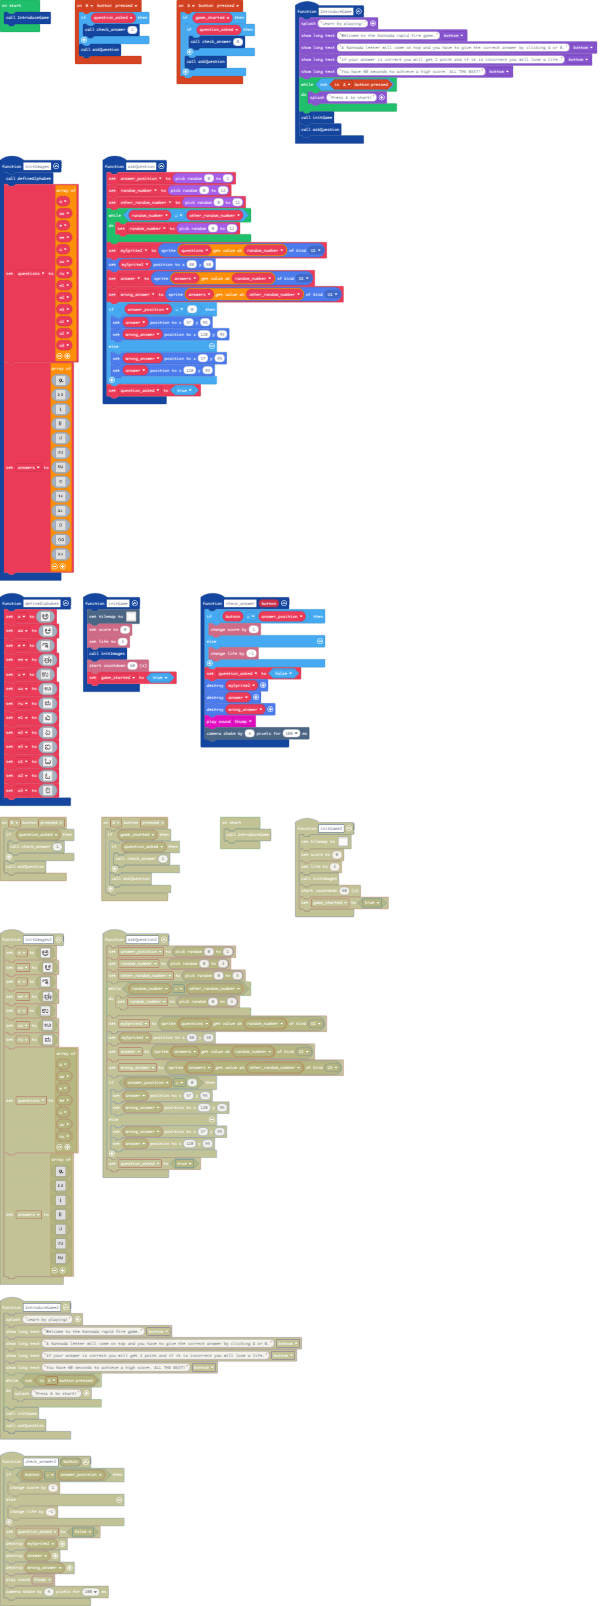
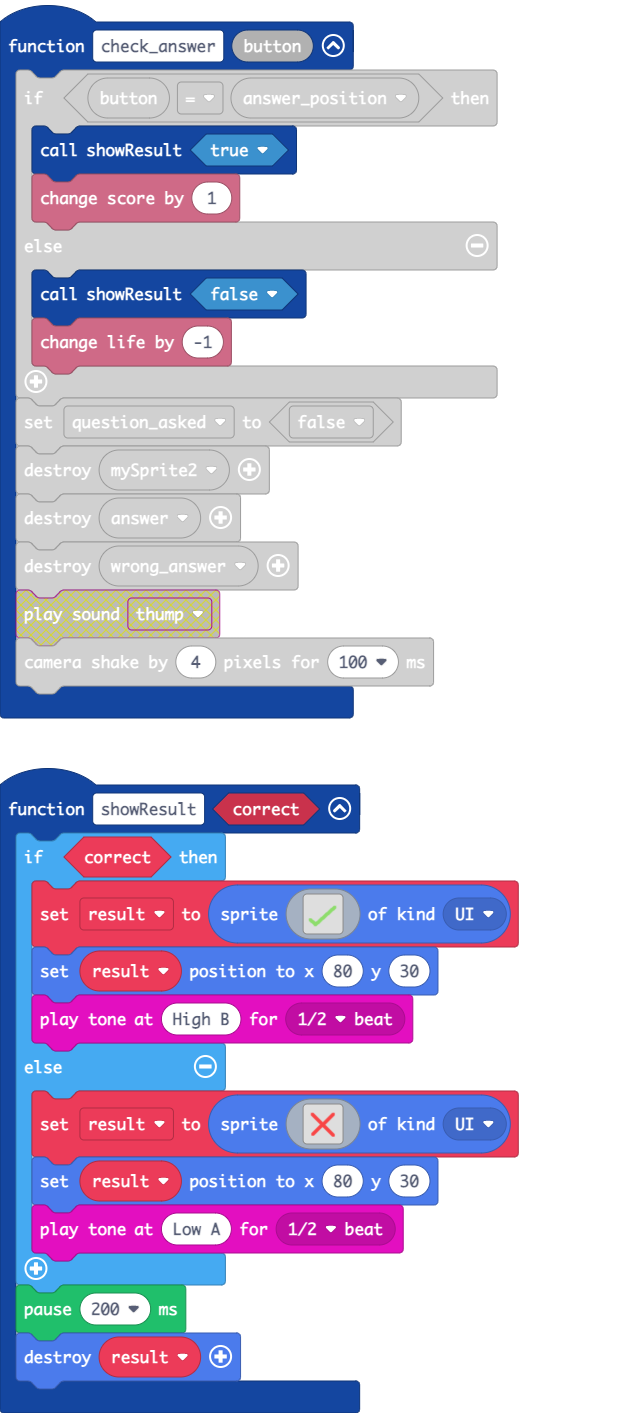
Update main.blocks, main.ts, tilemap.g.jres, tilemap.g.ts, images.g.jres, images.g.ts

diff --git a/images.g.ts b/images.g.ts
@@ -1296,6 +1296,140 @@ namespace myImages {
 ................................
 ................................
 `;
+            case "9~A=H0!|@*oYaUJzt`SR":
+            case "incorrect":return img`
+................................................................
+................................................................
+................................................................
+................................................................
+................................................................
+................................................................
+................................................................
+................................................................
+................................................................
+................................................................
+........22222.....................................22222.........
+........222222...................................222222.........
+........2222222.................................2222222.........
+........22222222...............................22222222.........
+........222222222.............................222222222.........
+.........222222222...........................222222222..........
+..........222222222.........................222222222...........
+...........222222222.......................222222222............
+............222222222.....................222222222.............
+.............222222222...................222222222..............
+..............222222222.................222222222...............
+...............222222222...............222222222................
+................222222222.............222222222.................
+.................222222222...........222222222..................
+..................222222222.........222222222...................
+...................222222222.......222222222....................
+....................222222222.....222222222.....................
+.....................222222222...222222222......................
+......................222222222.222222222.......................
+.......................22222222222222222........................
+........................222222222222222.........................
+.........................2222222222222..........................
+..........................22222222222...........................
+..........................2222222222............................
+.........................222222222222...........................
+........................22222222222222..........................
+.......................2222222222222222.........................
+......................222222222222222222........................
+.....................222222222..222222222.......................
+....................222222222....222222222......................
+...................222222222......222222222.....................
+..................222222222........222222222....................
+.................222222222..........222222222...................
+................222222222............222222222..................
+...............222222222..............222222222.................
+..............222222222................222222222................
+.............222222222..................222222222...............
+............222222222....................222222222..............
+...........222222222......................222222222.............
+..........222222222........................222222222............
+.........222222222..........................222222222...........
+.........22222222............................222222222..........
+.........2222222..............................222222222.........
+.........222222................................22222222.........
+.........22222..................................2222222.........
+.................................................222222.........
+..................................................22222.........
+................................................................
+................................................................
+................................................................
+................................................................
+................................................................
+................................................................
+................................................................
+`;
+            case "Zl_]B3p6DDS":
+            case "correct":return img`
+................................................................
+................................................................
+................................................................
+................................................................
+................................................................
+................................................................
+................................................................
+................................................................
+................................................................
+................................................................
+................................................................
+................................................................
+................................................................
+................................................................
+................................................................
+................................................................
+.....................................................77777......
+....................................................777777......
+...................................................7777777......
+..................................................77777777......
+................................................7777777777......
+...............................................7777777777.......
+..............................................7777777777........
+.............................................7777777777.........
+............................................7777777777..........
+...........................................777777777............
+..........................................777777777.............
+.........................................777777777..............
+........................................777777777...............
+......................................7777777777................
+.....................................7777777777.................
+....................................7777777777..................
+...................................7777777777...................
+..................................7777777777....................
+.................................777777777......................
+................................777777777.......................
+...............................777777777........................
+..............................777777777.........................
+............................7777777777..........................
+...........................7777777777...........................
+..........................7777777777............................
+....77777................7777777777.............................
+....777777..............7777777777..............................
+....7777777............777777777................................
+....77777777..........777777777.................................
+....7777777777.......777777777..................................
+.....7777777777.....777777777...................................
+......7777777777..7777777777....................................
+.......77777777777777777777.....................................
+........777777777777777777......................................
+..........777777777777777.......................................
+...........7777777777777........................................
+............7777777777..........................................
+.............77777777...........................................
+..............777777............................................
+..............77777.............................................
+................................................................
+................................................................
+................................................................
+................................................................
+................................................................
+................................................................
+................................................................
+................................................................
+`;
         }
         return null;
     })

diff --git a/tilemap.g.ts b/tilemap.g.ts
@@ -119,6 +119,25 @@ namespace myTiles {
 . . . . . . . . . . 
 . . . . . . . . . . 
 `, [myTiles.transparency16,myTiles.tile3,myTiles.tile4,myTiles.tile1], TileScale.Sixteen);
+            case "level7":
+            case "level7":return tiles.createTilemap(hex`1000100000000000000000000000000000000000000000000000000000000000000000000000000000000000000000000000000000000000000000000000000000000000000000000000000000000000000000000000000000000000000000000000000000000000000000000000000000000000000000000000000000000000000000000000000000000000000000000000000000000000000000000000000000000000000000000000000000000000000000000000000000000000000000000000000000000000000000000000000000000000000000000000000000000000000000000000000000000000000000000000000000000000000000000000000000000000`, img`
+. . . . . . . . . . . . . . . . 
+. . . . . . . . . . . . . . . . 
+. . . . . . . . . . . . . . . . 
+. . . . . . . . . . . . . . . . 
+. . . . . . . . . . . . . . . . 
+. . . . . . . . . . . . . . . . 
+. . . . . . . . . . . . . . . . 
+. . . . . . . . . . . . . . . . 
+. . . . . . . . . . . . . . . . 
+. . . . . . . . . . . . . . . . 
+. . . . . . . . . . . . . . . . 
+. . . . . . . . . . . . . . . . 
+. . . . . . . . . . . . . . . . 
+. . . . . . . . . . . . . . . . 
+. . . . . . . . . . . . . . . . 
+. . . . . . . . . . . . . . . . 
+`, [myTiles.transparency16], TileScale.Sixteen);
         }
         return null;
     })

diff --git a/main.ts b/main.ts
@@ -53,20 +53,34 @@ function initGame () {
     info.startCountdown(60)
     game_started = true
 }
+function showResult (correct: boolean) {
+    if (correct) {
+        result = sprites.create(assets.image`correct`, SpriteKind.UI)
+        result.setPosition(80, 30)
+        music.playTone(988, music.beat(BeatFraction.Half))
+    } else {
+        result = sprites.create(assets.image`incorrect`, SpriteKind.UI)
+        result.setPosition(80, 30)
+        music.playTone(220, music.beat(BeatFraction.Half))
+    }
+    pause(200)
+    result.destroy()
+}
 info.onLifeZero(function () {
     game.over(false)
 })
 function check_answer (button: number) {
     if (button == answer_position) {
+        showResult(true)
         info.changeScoreBy(1)
     } else {
+        showResult(false)
         info.changeLifeBy(-1)
     }
     question_asked = false
     mySprite2.destroy()
     answer.destroy()
     wrong_answer.destroy()
-    music.thump.play()
     scene.cameraShake(4, 100)
 }
 function initImages () {
@@ -130,6 +144,7 @@ let wrong_answer: Sprite = null
 let answer: Sprite = null
 let mySprite2: Sprite = null
 let answer_position = 0
+let result: Sprite = null
 let o3: Image = null
 let o2: Image = null
 let o1: Image = null
